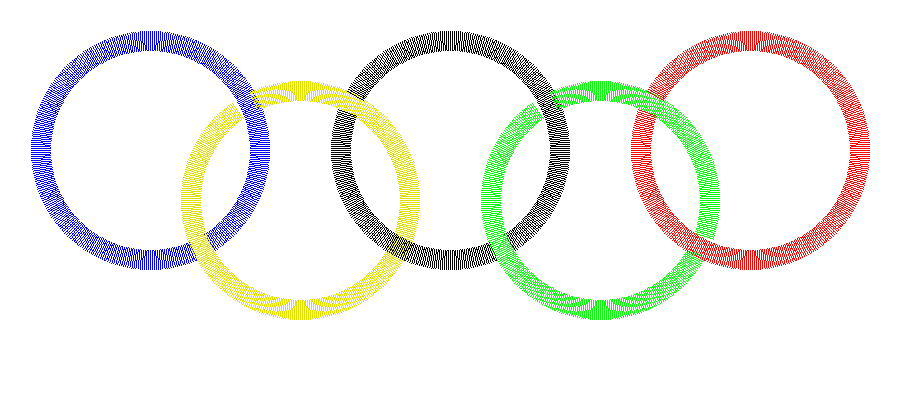
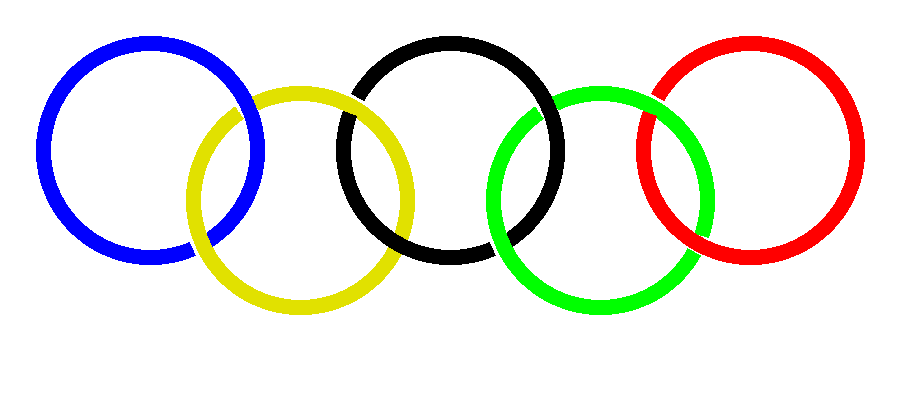
Quick 5 minutes of thinking and got solid rings
Issue was the range of degrees I was plotting the points. This looks to
be the most effeicent was in comparison to spot checking each pixel on
the canvas.

Changed region(s): [[0.0311, 0.06, 0.9644, 0.81]]

diff --git a/index.php b/index.php
@@ -42,8 +42,9 @@ function draw_ring($rx, $ry, $radius, $color) {
 
 	$ring_center = array('x'=>$rx,'y'=>$ry);
 
-	for ($i = 0; $i < 360; $i++) {
-
+	$range = range(0,360,.1);
+	foreach($range as $k=>$v) {
+		$i = $v;
 		if($color == $blue && $i > 57 && $i < 67) {
 			continue;
 		}
@@ -62,7 +63,7 @@ function draw_ring($rx, $ry, $radius, $color) {
 
 		$degrees = $i;
 
-		for ( $e=0; $e < 20; $e++) {
+		for ( $e=0; $e < 1; $e++) {
 			$y_from_ring_center = sin(deg2rad($degrees))*($radius + $e);
 			$x_from_ring_center = cos(deg2rad($degrees))*($radius + $e);
 			$x = $ring_center['x'] + $x_from_ring_center;
@@ -88,8 +89,10 @@ for($i=1;$i<=$rings['total']; $i++) {
 	
 	//Offset by -1 because I started $i at 1
 	$color = $rings['order'][$i-1];
-	
-	draw_ring($rx,$ry,$rings['radius'],$color);
+
+	for($r=0; $r<15;$r++){
+		draw_ring($rx,$ry,$rings['radius'] + $r,$color);
+	}
 }
 
 header('Content-Type: image/png');
